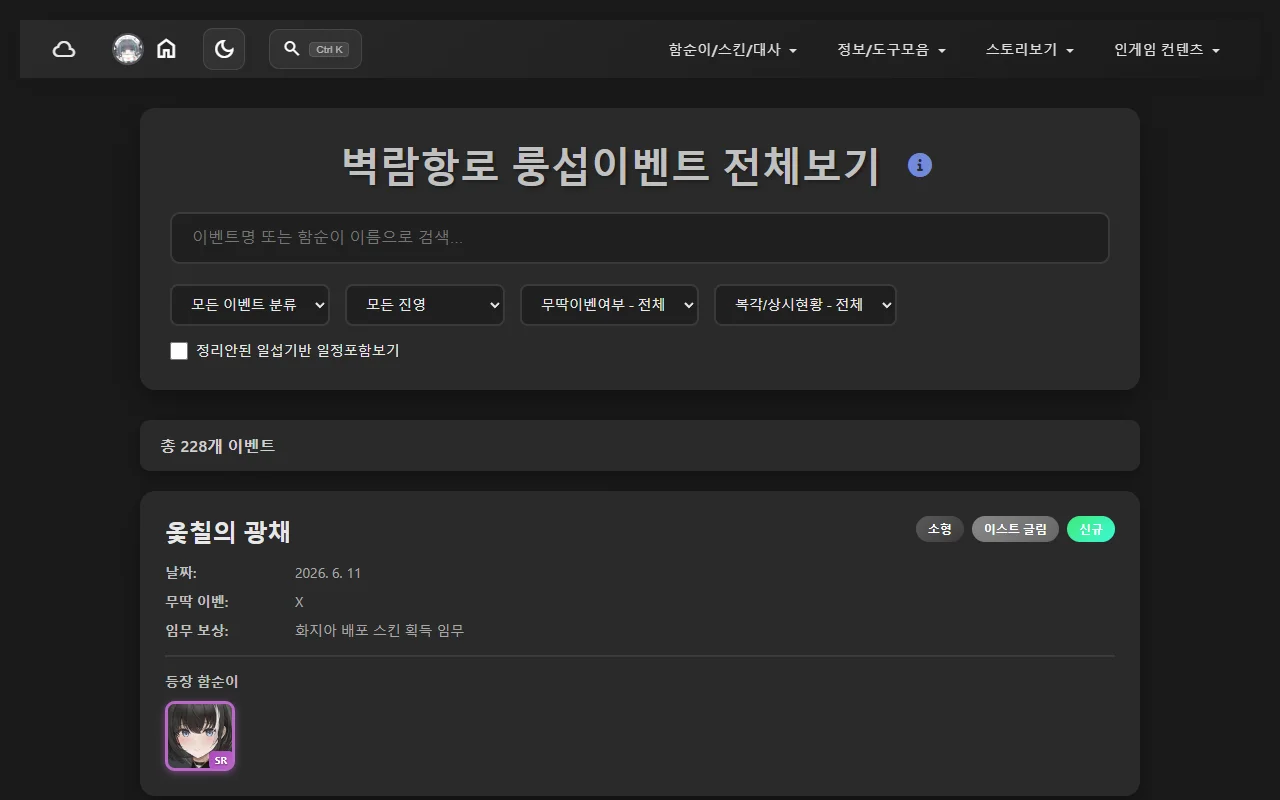
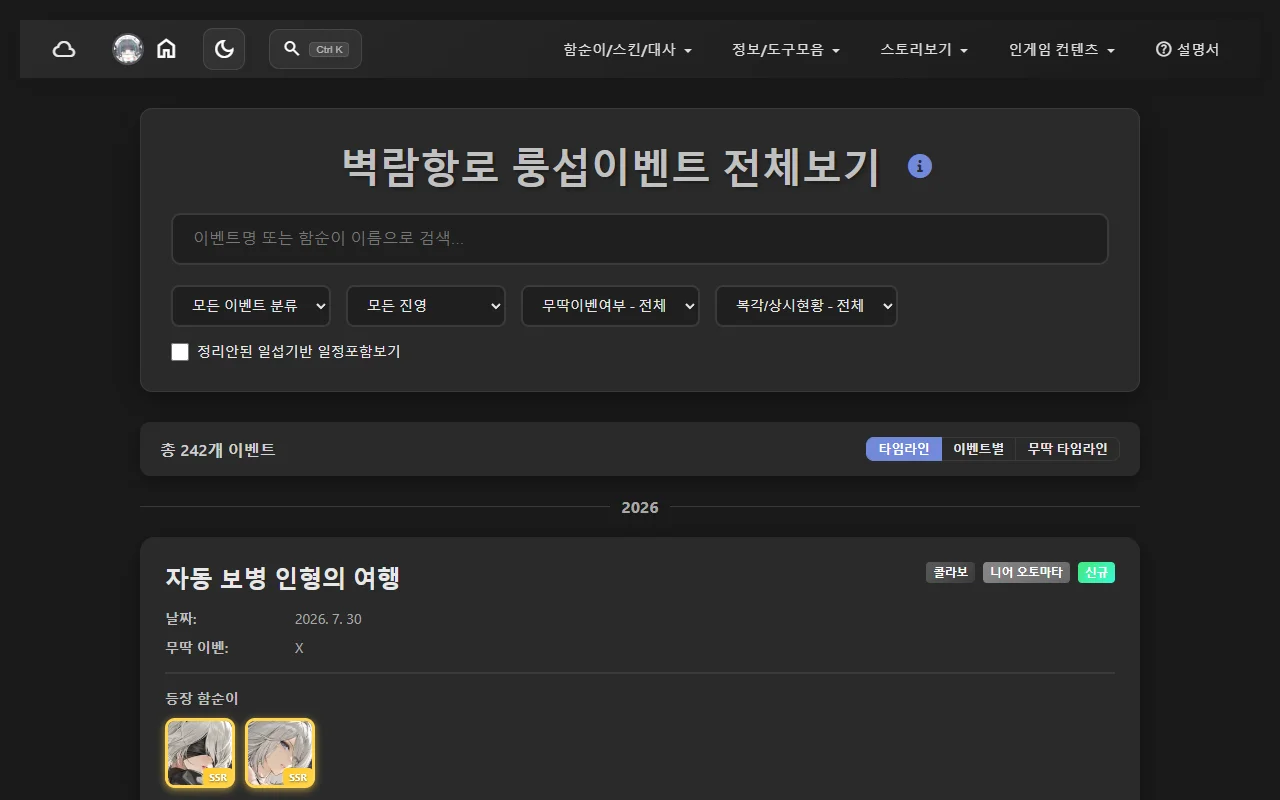
설명서 업데이트

diff --git a/src/wiki-content/EVENT_TIMELINE.md b/src/wiki-content/EVENT_TIMELINE.md
@@ -4,7 +4,7 @@
 >
 > **내비게이션 바 위치**: 정보/도구모음 → 각종 계산기/도구
 
-과거 룽섭 이벤트 일정(228개+)을 검색/필터와 함께 쭉 볼 수 있는 페이지.
+과거 룽섭 이벤트 일정(240개+)을 검색/필터와 함께 쭉 볼 수 있는 페이지.
 
 ![이벤트 목록](/altoy/wiki-assets/EVENT_TIMELINE/01-main.webp)
 *검색 + 필터 + 이벤트 카드(날짜/무딱 여부/임무 보상/등장 함순이)*
@@ -15,6 +15,30 @@
   - 예) 무딱이벤여부 → O로 두면 무딱 있었던 이벤만, 복각/상시현황 → 상시만 두면 상시 편입된 이벤트만
 - **일섭기반 일정 포함**: 정리 안 된 일섭기반 일정까지 포함해서 보는 체크박스
 - **연동**: `상세보기` 있는 이벤트는 누르면 챈 정보글로 이동, 등장 함순이를 누르면 함순이 DB 상세로 이동
+
+## 보기 방식 3가지
+목록 위 버튼으로 전환. 검색/필터는 어느 보기에서든 그대로 먹음.
+
+- **타임라인**: 기본. 이벤트 카드를 시간순으로 쭉 나열. 복각/상시 카드를 누르면
+  같은 이벤트의 신규→복각→상시 런들이 서로 연결돼서 표시됨
+- **이벤트별**: 같은 이벤트의 신규/복각/상시를 한 카드로 묶어서 보여줌.
+  "이 이벤트 몇 번 복각됐지?" 볼 때 편함
+
+![이벤트별 보기](/altoy/wiki-assets/EVENT_TIMELINE/02-groups.webp)
+*한 카드에 신규 → 복각 → 상시가 며칠 간격이었는지까지 표시*
+
+- **무딱 타임라인**: 무딱 있었던 이벤트만 모아서 월 단위 가로 차트로 표시.
+  한 줄이 한 이벤트고, 신규→복각→상시 흐름이 한눈에 보임
+  - **기본 보기**: 실제 연월 축. 언제 뭐가 있었나 보는 용도
+  - **복각주기 보기**: 각 이벤트의 첫 런을 0으로 맞춰서 다시 그림.
+    "보통 몇 개월 만에 복각되나" 이벤트끼리 비교할 때 사용
+    (복각/상시 이력 있는 무딱 이벤트만 나옴)
+
+![무딱 타임라인 - 기본 보기](/altoy/wiki-assets/EVENT_TIMELINE/03-mudak.webp)
+*기본 보기 — 실제 연월 축. 초록 = 복각 대기, 파랑 = 상시 대기, 분홍 = 상시 플레이 가능*
+
+![무딱 타임라인 - 복각주기 보기](/altoy/wiki-assets/EVENT_TIMELINE/04-mudak-relative.webp)
+*복각주기 보기 — 첫 런을 0개월로 맞춰서 이벤트끼리 복각 주기를 나란히 비교*
 
 ## 참고
 - 챈에서 찾을 수 있는 굵직한 이벤트들 말고는 수작업으로 정리된 거라 약간 찐빠가 있을 수 있음 — 제보 환영

diff --git a/src/wiki-content/EVENT_STORY.md b/src/wiki-content/EVENT_STORY.md
@@ -1,0 +1,27 @@
+# 이벤트 스토리 모음 (한정 이벤트 스토리 아카이브)
+
+> **URL**: https://jforplay.github.io/altoy/story-viewer/event-story/
+>
+> **내비게이션 바 위치**: 스토리보기 → 기타 스토리 컨텐츠
+
+기간한정 이벤트 스토리들을 연도별로 모아둔 아카이브. 메인스토리 페이지에 안 실리는 소형 이벤트·복각 이벤트 스토리까지 전부 여기서 볼 수 있음.
+
+![연도별 이벤트 그리드](/altoy/wiki-assets/EVENT_STORY/01-main.webp)
+*최신 이벤트부터 연도별로 정리된 역대 한정 이벤트들*
+
+## 주요 기능
+- **연도별 정리 + 검색**: 최신 이벤트부터 연도별 섹션으로 정리, 이벤트 이름 검색 지원
+- **유형/진영 필터**: E.X. / S.P. / 데일리 칩(게임 자체 분류 명칭 그대로)과 진영 필터로 골라보기
+- **메인스토리 연동**: 스토리가 다른 페이지(메인스토리 등)에 이미 있는 이벤트는 배지가 붙고, 누르면 해당 페이지로 바로 이동
+- 커버 일러가 없는 이벤트는 SD 일러 플레이스홀더 커버로 표시
+
+![개별 스토리 목록](/altoy/wiki-assets/EVENT_STORY/02-memories.webp)
+*이벤트를 고르면 나오는 개별 스토리 목록*
+
+## 스토리 감상
+- **스토리 뷰어**: 메인스토리 뷰어와 같은 형태로 감상 — 일러+브금+연출, 전체 대사보기, 진행도 표시 지원
+- **전체 대사 모아보기**: 이벤트의 모든 스토리 대사를 한 화면에 모아보고 전체 복사도 가능
+- 스토리 재생 시 브금 자동재생 주의 알림 있음
+
+![스토리 뷰어](/altoy/wiki-assets/EVENT_STORY/03-story.webp)
+*스토리 뷰어 화면*
